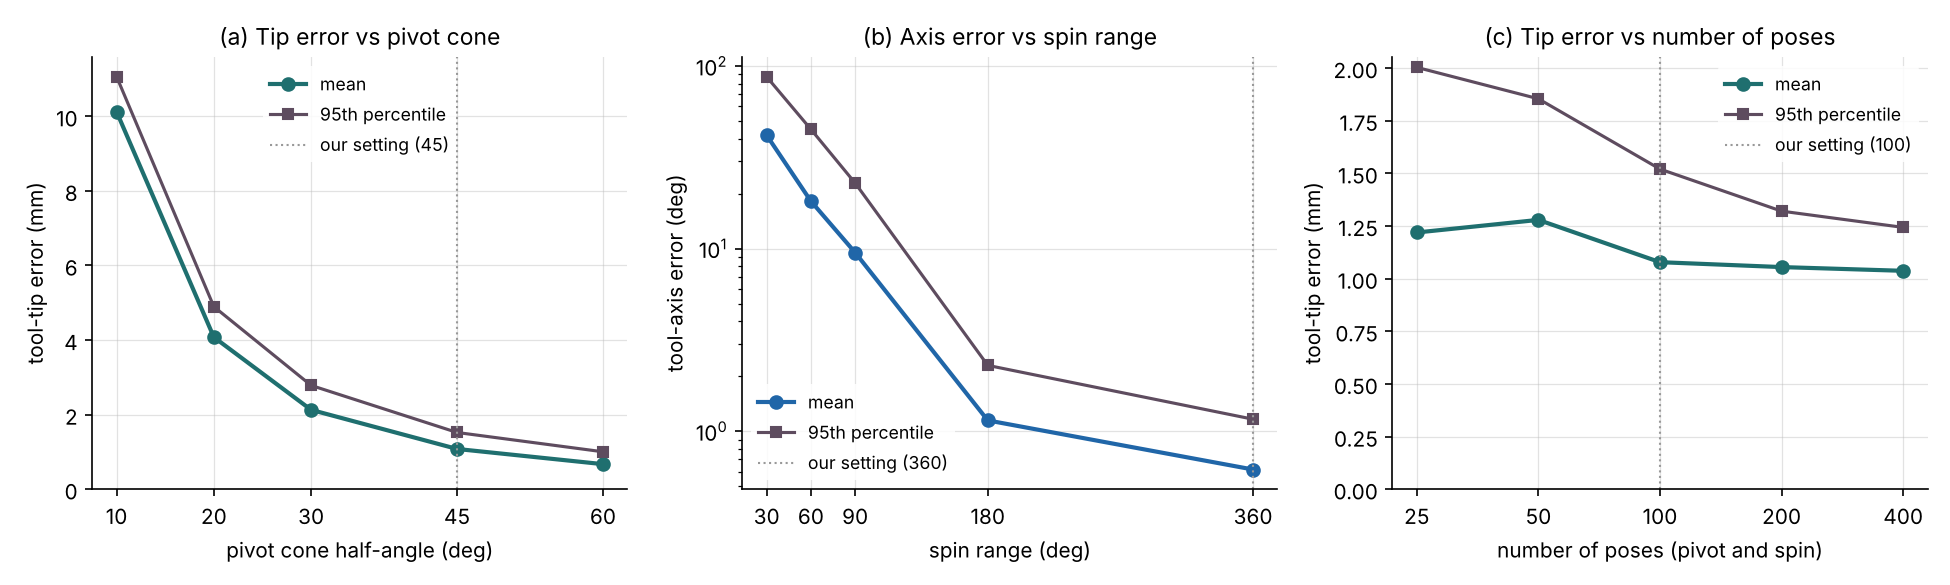
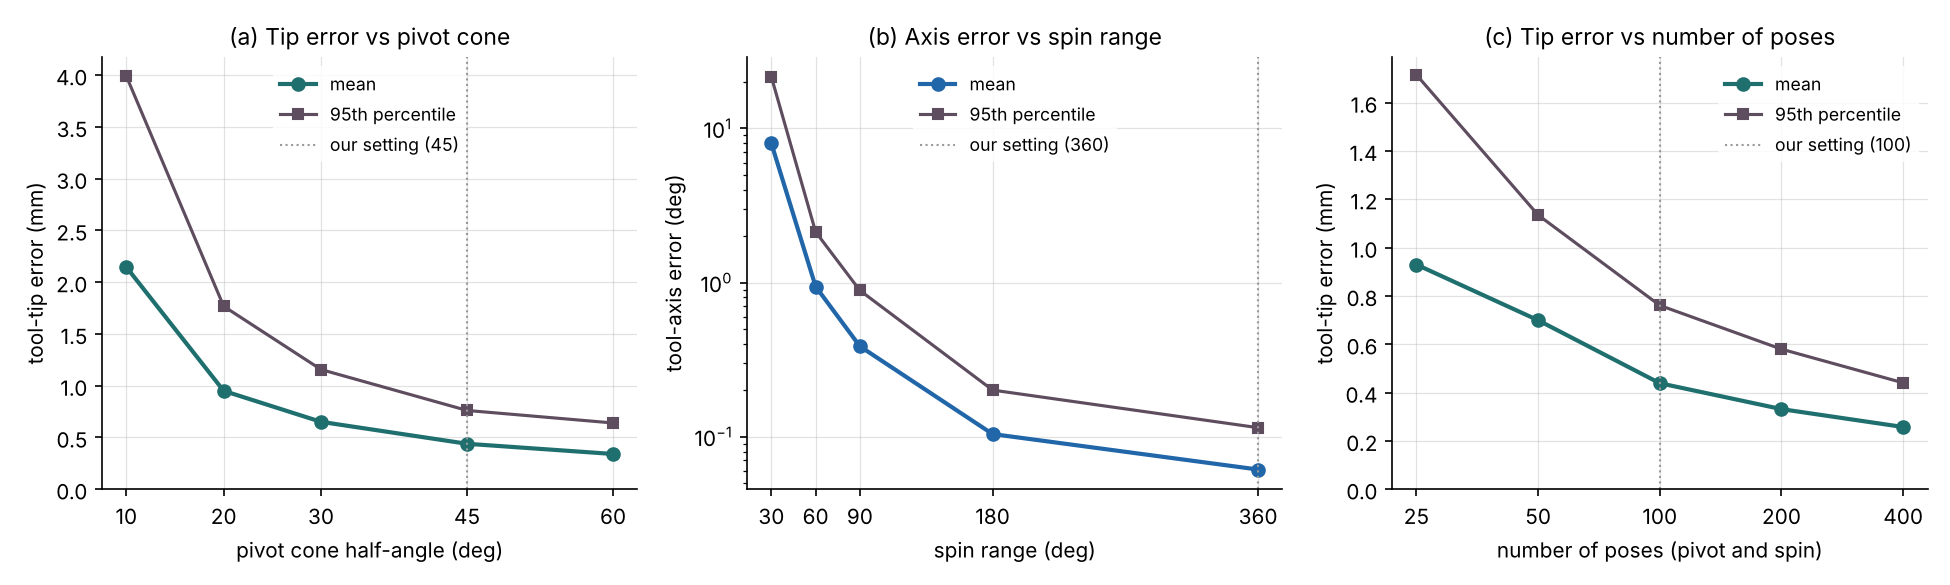
Read the Task 1 and 2 tool model in cm
Marker positions in config.py are now the assignment's numbers read in cm and stored in mm, e.g. M1 = (20, 180, 0). Updated the Task 1 and 2 test values and the drawn shaft length to match, and regenerated the Task 1 and 2 outputs.

diff --git a/tests/test_task2_registration.py b/tests/test_task2_registration.py
@@ -19,36 +19,36 @@ from frames import frame_from_three_points
 from geometry import apply_transform, is_rigid
 
 TOL = 1e-9
-M1_tool_mm, M2_tool_mm, M3_tool_mm = [2, 18, 0], [8, 18, 0], [2, 24, 0]
+M1_tool_mm, M2_tool_mm, M3_tool_mm = [20, 180, 0], [80, 180, 0], [20, 240, 0]
 P_tool_mm, v_tool = [0, 0, 0], [0, -1, 0]
-# In its marker frame (origin (4,20,0), axes parallel to F_mod) the tip is at (-4,-20,0)
-# and the axis is (0,-1,0), so Pct = O - 4 i - 20 j and Vct = -j in every case.
+# In its marker frame (origin (40,200,0), axes parallel to F_mod) the tip is at (-40,-200,0)
+# and the axis is (0,-1,0), so Pct = O - 40 i - 200 j and Vct = -j in every case.
 
 TEST_CASES = [
     {"name": "Case 1: pure translation by d = (10, 20, 30)",
-     "on_paper": ["Every point moves by d: M1ct = (12,38,30), M2ct = (18,38,30), M3ct = (12,44,30).",
-                  "Marker frame in CT: O = (14,40,30), i, j, k = x, y, z.",
+     "on_paper": ["Every point moves by d: M1ct = (30,200,30), M2ct = (90,200,30), M3ct = (30,260,30).",
+                  "Marker frame in CT: O = (50,220,30), i, j, k = x, y, z.",
                   "Pct = Ptool + d = (10,20,30), and Vct = vtool = (0,-1,0)."],
-     "M_ct_mm": [[12, 38, 30], [18, 38, 30], [12, 44, 30]],
-     "O": [14, 40, 30], "i": [1, 0, 0], "j": [0, 1, 0], "k": [0, 0, 1],
+     "M_ct_mm": [[30, 200, 30], [90, 200, 30], [30, 260, 30]],
+     "O": [50, 220, 30], "i": [1, 0, 0], "j": [0, 1, 0], "k": [0, 0, 1],
      "F_ct_from_mod": [[1, 0, 0, 10], [0, 1, 0, 20], [0, 0, 1, 30], [0, 0, 0, 1]],
      "P_ct_mm": [10, 20, 30], "V_ct": [0, -1, 0]},
 
     {"name": "Case 2: pure rotation, 90 deg about z: (x, y, z) -> (-y, x, z)",
-     "on_paper": ["M1ct = (-18,2,0), M2ct = (-18,8,0), M3ct = (-24,2,0).",
-                  "Marker frame in CT: i = (0,1,0), k = (0,0,1), j = k x i = (-1,0,0), O = (-20,4,0).",
-                  "Pct = O - 4 i - 20 j = (0,0,0), and Vct = -j = (1,0,0)."],
-     "M_ct_mm": [[-18, 2, 0], [-18, 8, 0], [-24, 2, 0]],
-     "O": [-20, 4, 0], "i": [0, 1, 0], "j": [-1, 0, 0], "k": [0, 0, 1],
+     "on_paper": ["M1ct = (-180,20,0), M2ct = (-180,80,0), M3ct = (-240,20,0).",
+                  "Marker frame in CT: i = (0,1,0), k = (0,0,1), j = k x i = (-1,0,0), O = (-200,40,0).",
+                  "Pct = O - 40 i - 200 j = (0,0,0), and Vct = -j = (1,0,0)."],
+     "M_ct_mm": [[-180, 20, 0], [-180, 80, 0], [-240, 20, 0]],
+     "O": [-200, 40, 0], "i": [0, 1, 0], "j": [-1, 0, 0], "k": [0, 0, 1],
      "F_ct_from_mod": [[0, -1, 0, 0], [1, 0, 0, 0], [0, 0, 1, 0], [0, 0, 0, 1]],
      "P_ct_mm": [0, 0, 0], "V_ct": [1, 0, 0]},
 
     {"name": "Case 3: 90 deg about x, then 90 deg about z, then translation by d = (-40, 60, 100)",
-     "on_paper": ["The two turns give (x, y, z) -> (z, x, y): M1ct = (-40,62,118), M2ct = (-40,68,118), M3ct = (-40,62,124).",
-                  "Marker frame in CT: i = (0,1,0), k = (1,0,0), j = k x i = (0,0,1), O = (-40,64,120).",
-                  "Pct = O - 4 i - 20 j = (-40,60,100), and Vct = -j = (0,0,-1)."],
-     "M_ct_mm": [[-40, 62, 118], [-40, 68, 118], [-40, 62, 124]],
-     "O": [-40, 64, 120], "i": [0, 1, 0], "j": [0, 0, 1], "k": [1, 0, 0],
+     "on_paper": ["The two turns give (x, y, z) -> (z, x, y): M1ct = (-40,80,280), M2ct = (-40,140,280), M3ct = (-40,80,340).",
+                  "Marker frame in CT: i = (0,1,0), k = (1,0,0), j = k x i = (0,0,1), O = (-40,100,300).",
+                  "Pct = O - 40 i - 200 j = (-40,60,100), and Vct = -j = (0,0,-1)."],
+     "M_ct_mm": [[-40, 80, 280], [-40, 140, 280], [-40, 80, 340]],
+     "O": [-40, 100, 300], "i": [0, 1, 0], "j": [0, 0, 1], "k": [1, 0, 0],
      "F_ct_from_mod": [[0, 0, 1, -40], [1, 0, 0, 60], [0, 1, 0, 100], [0, 0, 0, 1]],
      "P_ct_mm": [-40, 60, 100], "V_ct": [0, 0, -1]},
 ]

diff --git a/tests/test_task1_calibration.py b/tests/test_task1_calibration.py
@@ -7,7 +7,7 @@ Task 1 test: tool calibration with exact marker positions.
   4. A few poses are enough with exact data (5 pivot poses, 3 spin poses).
   5. Only tilting in different directions gives the pivot equations rank 6.
   6. A short spin arc still gives the exact axis with exact data.
-True tool in the marker frame: p_m = (-4, -20, 0) mm, v_m = (0, -1, 0).
+True tool in the marker frame: p_m = (-40, -200, 0) mm, v_m = (0, -1, 0).
 
 Run from the A2 folder:   python3 tests/test_task1_calibration.py
 
@@ -25,7 +25,7 @@ from frames import marker_frames
 from geometry import apply_transform, transform_direction, angle_between_deg
 
 TOL_mm, TOL_deg = 1e-9, 1e-9
-TIP_TRUE_MARKER_mm = np.array([-4.0, -20.0, 0.0])       # P_mod (0,0,0) minus the marker frame origin (4,20,0)
+TIP_TRUE_MARKER_mm = np.array([-40.0, -200.0, 0.0])     # P_mod (0,0,0) minus the marker frame origin (40,200,0)
 AXIS_TRUE_MARKER = np.array([0.0, -1.0, 0.0])           # the marker frame is parallel to F_mod
 PIVOT_POINT_mm = [100.0, 50.0, 200.0]
 # The starting pose turns (0,-1,0) by 20 deg about x and then 30 deg about z:
@@ -50,8 +50,8 @@ checks.write(f"1. Pivot motion ({config.N_POSES} poses, cone half-angle {config.
 tips_mm = np.array([apply_transform(F, config.TIP_MOD_mm) for F in F_pivot])
 checks.check("tip distance from (100,50,200), largest", 0.0, np.linalg.norm(tips_mm - PIVOT_POINT_mm, axis=1).max(),
              TOL_mm, "mm")
-# Distance of each marker from the tip in the tool model: sqrt(2^2+18^2), sqrt(8^2+18^2), sqrt(2^2+24^2).
-for marker, (name, radius_mm) in enumerate(zip(config.MARKER_NAMES, [18.111, 19.698, 24.083])):
+# Distance of each marker from the tip in the tool model: sqrt(20^2+180^2), sqrt(80^2+180^2), sqrt(20^2+240^2).
+for marker, (name, radius_mm) in enumerate(zip(config.MARKER_NAMES, [181.108, 196.977, 240.832])):
     distances_mm = np.linalg.norm(markers_pivot_mm[:, marker, :] - PIVOT_POINT_mm, axis=1)
     checks.check(f"{name} distance from the tip, min and max", [radius_mm, radius_mm],
                  [distances_mm.min(), distances_mm.max()], 1e-3, "mm")
@@ -69,8 +69,8 @@ checks.check("tip distance from (100,50,200), largest", 0.0, np.linalg.norm(tips
              TOL_mm, "mm")
 checks.check("tool axis in the tracker frame", AXIS_TRUE_TRACKER, axes_tracker[0], 1e-5)
 checks.check("tool axis, largest change over the poses", 0.0, np.abs(axes_tracker - axes_tracker[0]).max(), TOL_mm)
-# Position along the axis and distance from it, from the tool model: M1 -18 and 2, M2 -18 and 8, M3 -24 and 2 mm.
-for marker, (name, along_mm, radius_mm) in enumerate(zip(config.MARKER_NAMES, [-18, -18, -24], [2, 8, 2])):
+# Position along the axis and distance from it, from the tool model: M1 -180 and 20, M2 -180 and 80, M3 -240 and 20 mm.
+for marker, (name, along_mm, radius_mm) in enumerate(zip(config.MARKER_NAMES, [-180, -180, -240], [20, 80, 20])):
     offsets_mm = markers_spin_mm[:, marker, :] - tips_mm
     along_axis_mm = offsets_mm @ axes_tracker[0]
     from_axis_mm = np.sqrt(np.sum(offsets_mm ** 2, axis=1) - along_axis_mm ** 2)

diff --git a/tests/test_utilities.py b/tests/test_utilities.py
@@ -25,16 +25,16 @@ checks.write("frame_from_three_points: i = normalize(B - A), k = normalize(i x (
 F = frame_from_three_points([0, 0, 0], [1, 0, 0], [0, 1, 0])
 checks.check("A(0,0,0), B(1,0,0), C(0,1,0): axes i, j, k", np.eye(3), F[:3, :3], TOL)
 checks.check("A(0,0,0), B(1,0,0), C(0,1,0): origin O", [1 / 3, 1 / 3, 0], F[:3, 3], TOL, "mm")
-# Tool model markers: B - A = (6,0,0) gives i = x, C - A = (0,6,0) gives k = z, so j = y.
-F = frame_from_three_points([2, 18, 0], [8, 18, 0], [2, 24, 0])
+# Tool model markers: B - A = (60,0,0) gives i = x, C - A = (0,60,0) gives k = z, so j = y.
+F = frame_from_three_points([20, 180, 0], [80, 180, 0], [20, 240, 0])
 checks.check("tool model markers: axes i, j, k", np.eye(3), F[:3, :3], TOL, "", "parallel to F_mod")
-checks.check("tool model markers: origin O", [4, 20, 0], F[:3, 3], TOL, "mm")
-# Markers turned 90 deg about z: i = (0,1,0), i x (-6,0,0) = (0,0,6) gives k = z, j = k x i = (-1,0,0).
-F = frame_from_three_points([-18, 2, 0], [-18, 8, 0], [-24, 2, 0])
+checks.check("tool model markers: origin O", [40, 200, 0], F[:3, 3], TOL, "mm")
+# Markers turned 90 deg about z: i = (0,1,0), i x (-60,0,0) = (0,0,60) gives k = z, j = k x i = (-1,0,0).
+F = frame_from_three_points([-180, 20, 0], [-180, 80, 0], [-240, 20, 0])
 checks.check("turned markers: i", [0, 1, 0], F[:3, 0], TOL)
 checks.check("turned markers: j", [-1, 0, 0], F[:3, 1], TOL)
 checks.check("turned markers: k", [0, 0, 1], F[:3, 2], TOL)
-checks.check("turned markers: origin O", [-20, 4, 0], F[:3, 3], TOL, "mm")
+checks.check("turned markers: origin O", [-200, 40, 0], F[:3, 3], TOL, "mm")
 
 # ---- invert_rigid -------------------------------------------------------------------------
 checks.write()

diff --git a/config.py b/config.py
@@ -7,11 +7,11 @@ import math
 import os
 import numpy as np
 
-# ---- Ground-truth tool model from the assignment, in F_mod (mm) ----------------
+# ---- Ground-truth tool model from the assignment (read in cm), in F_mod (mm) ----
 MARKER_NAMES = ["M1", "M2", "M3"]
-MARKERS_MOD_mm = np.array([[2.0, 18.0, 0.0],      # M1_mod
-                           [8.0, 18.0, 0.0],      # M2_mod
-                           [2.0, 24.0, 0.0]])     # M3_mod
+MARKERS_MOD_mm = np.array([[20.0, 180.0, 0.0],    # M1_mod
+                           [80.0, 180.0, 0.0],    # M2_mod
+                           [20.0, 240.0, 0.0]])   # M3_mod
 TIP_MOD_mm = np.array([0.0, 0.0, 0.0])            # P_mod
 AXIS_MOD = np.array([0.0, -1.0, 0.0])             # V_mod, points from the tip away from the handle
 

diff --git a/run_task1_calibration.py b/run_task1_calibration.py
@@ -52,7 +52,7 @@ say(f"1. Errors over {config.N_REPEATS} repeats            mean      p95")
 say(f"   tool-tip error (mm)          {tip_statistics['mean']:9.3f}{tip_statistics['p95']:9.3f}")
 say(f"   tool-axis error (deg)        {axis_statistics['mean']:9.3f}{axis_statistics['p95']:9.3f}")
 
-# Why the tip error is about 1 mm: the noisy marker frames pull the tip toward the markers.
+# Whether the tip error is a steady offset in one direction or changes from repeat to repeat.
 mean_error_vector_mm = results["tip_error_vector_mm"].mean(axis=0)
 tip_estimates_mm = tip_true_marker_mm + results["tip_error_vector_mm"]
 say()

diff --git a/figures.py b/figures.py
@@ -17,7 +17,7 @@ DARK_BLUE, MED_BLUE, LIGHT_BLUE = "#2066a8", "#3594cc", "#8cc5e3"
 DULL_PURPLE, MED_GRAY, LIGHT_GRAY = "#5e4c5f", "#999999", "#b8b8b8"
 DARK_RED = "#a00000"
 MARKER_COLORS = [DARK_BLUE, MED_BLUE, LIGHT_BLUE]          # M1, M2, M3
-SHAFT_LENGTH_mm = 30.0                                     # length of the drawn tool shaft
+SHAFT_LENGTH_mm = 300.0                                    # length of the drawn tool shaft
 
 plt.rcParams.update({"axes.spines.top": False, "axes.spines.right": False,
                      "axes.titlesize": 11, "axes.labelsize": 10, "legend.fontsize": 8.5,

diff --git a/README.md b/README.md
@@ -42,7 +42,7 @@ Each script prints its results and saves them in `outputs/`.
 ## Conventions
 
 - Lengths are in mm and angles in degrees. The assignment gives the tool model without
-  units, and we read its numbers as mm.
+  units. We read its numbers as cm, so `config.py` stores them in mm, e.g. M1 = (20, 180, 0).
 - Frames: `mod` is the tool model frame F_mod, `tracker` the optical tracker frame (the
   same as F_mod in the Task 1 simulation), `marker` the frame built from M1, M2, M3, and
   `ct` the CT frame.
